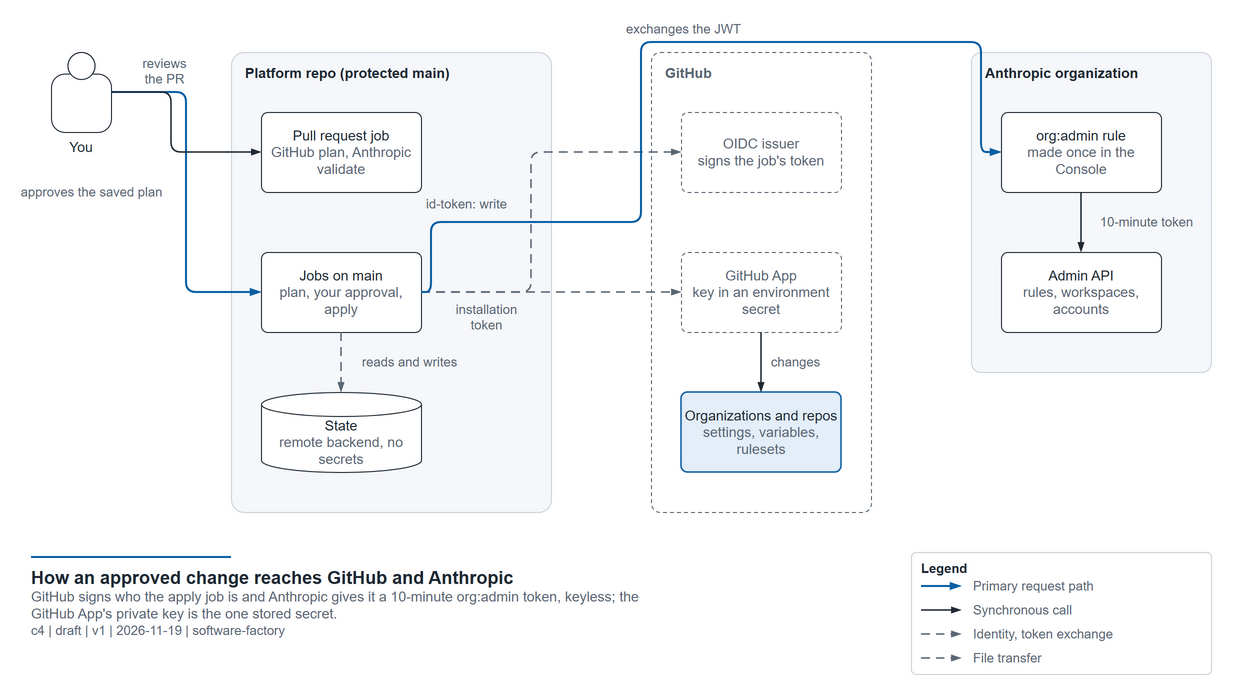
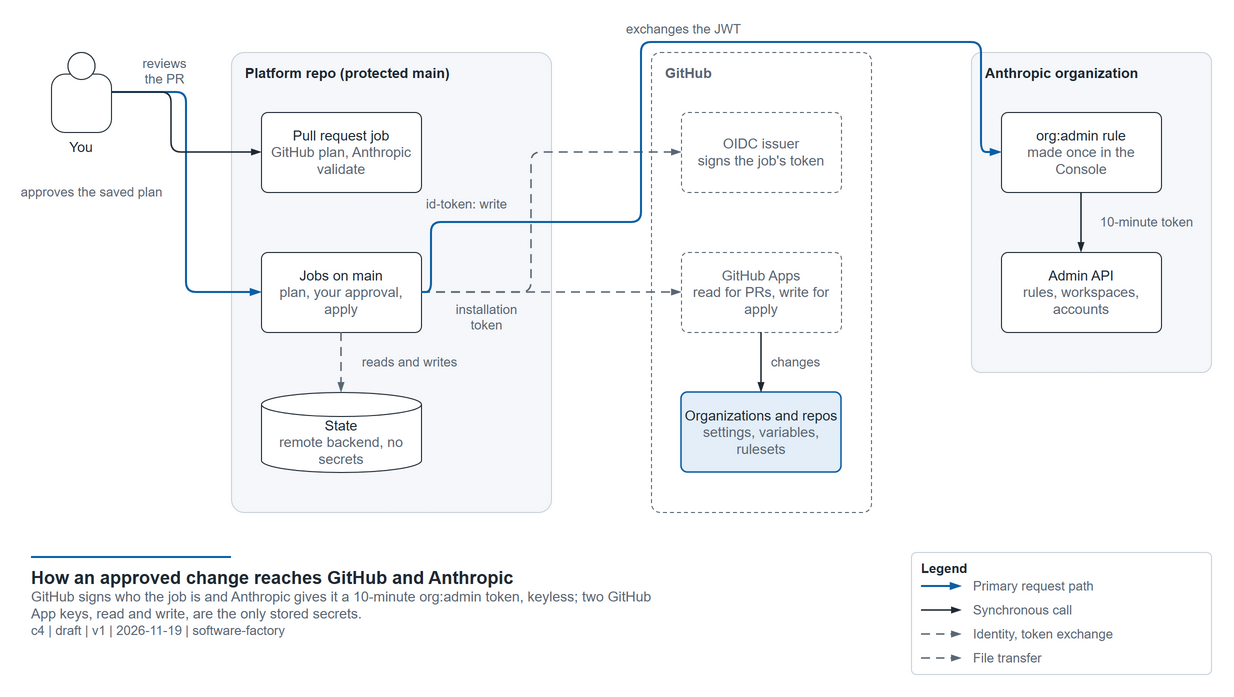
docs: pull request jobs get a read-only GitHub App only
Found by the Claude review on #27: the pull request job needed a GitHub
App token, but the one App described could write to every organization,
and a pull request's Terraform code (data "external") can reach any
secret its job can.

Two Apps now: platform-read (read permissions, used by the pull request
and plan jobs) and platform-write (key only in the production
environment, used by the approved apply). Phase 4's acceptance checks
that a test pull request gets neither the org:admin token nor the write
key; R3 and the diagram follow.

Changed region(s): [[0.0308, 0.8436, 0.5235, 0.9039], [0.5543, 0.3917, 0.6775, 0.4519]]

diff --git a/docs/plans/2026-11-19-terraform-platform.md b/docs/plans/2026-11-19-terraform-platform.md
@@ -101,7 +101,7 @@ That evidence settles D2.
 
 ## Target architecture
 
-![How an approved change reaches GitHub and Anthropic: you review the pull request, whose job plans GitHub and validates the Anthropic code; after the merge the jobs on main plan both, wait for your approval and apply the saved plan; they get a GitHub App installation token to change the organizations and repositories, and exchanges its GitHub OIDC token at a Console-made org:admin federation rule for a 10-minute token to the Anthropic Admin API; state lives in a remote backend without secrets](../diagrams/terraform-platform.png)
+![How an approved change reaches GitHub and Anthropic: you review the pull request, whose job plans GitHub and validates the Anthropic code; after the merge the jobs on main plan both, wait for your approval and apply the saved plan; they get GitHub App installation tokens (read-only for pull requests, write only for the approved apply) and exchange their GitHub OIDC token at a Console-made org:admin federation rule for a 10-minute token to the Anthropic Admin API; state lives in a remote backend without secrets](../diagrams/terraform-platform.png)
 
 - **One platform repository** (D1), one Terraform root per concern: `github/` (one provider alias per organization)
   and `anthropic/`. A module `factory-repo` holds everything one repository needs: the repository settings, its
@@ -114,12 +114,18 @@ That evidence settles D2.
   two jobs on `main`: the platform workflow's `job_workflow_ref` on `refs/heads/main`, and a CEL condition that the
   job's `environment` claim is `production-plan` or `production` (both environments limited to the `main` branch;
   the exact claim values to be confirmed against a real token in phase 4);
-  GitHub through a GitHub App installed on each organization, whose private key is an environment secret: the one
-  stored secret of the platform.
+  GitHub through **two GitHub Apps** installed on each organization, because a pull request's Terraform code can run
+  commands (`data "external"`) and so can reach any secret its job can:
+  - `platform-read`: read permissions only (administration, variables, Actions: read; no contents). Its key is a
+    repository secret, used by the pull request job and the plan job. Exposed to a pull request, it lets someone read
+    the organizations' settings, nothing more.
+  - `platform-write`: the write permissions the apply needs. Its key is a secret of the `production` environment
+    only, so only the approved apply job can read it.
+  The two App keys are the platform's only stored secrets.
 - **Where each plan runs.** Reading federation rules needs the `org:admin` token too (there is no read-only scope),
   and that token must never be reachable from code a pull request controls. So:
-  - **pull requests** run `terraform plan` for `github/` only (a GitHub App token with read permissions) and
-    `terraform validate` for `anthropic/`, which needs no credential;
+  - **pull requests** run `terraform plan` for `github/` only (with `platform-read`) and `terraform validate` for
+    `anthropic/`, which needs no credential;
   - **after a merge, on `main`,** a plan job in the environment `production-plan` (no reviewer) runs
     `terraform plan -out` for both roots and shows the plan in the job summary; nothing is changed;
   - an **apply job** in the environment `production` waits for **your approval** (its required reviewer: the one
@@ -143,8 +149,8 @@ Each phase is useful on its own and can stop there.
 |---|---|---|---|
 | 1. Spike | this document's spike | GitHub: done. Anthropic: both providers import with `0 to change`; D2 decided | S, half done |
 | 2. Anthropic in code | the chosen provider manages the rules, service account (and workspaces, if the provider allows it keyless) of the three repositories, applied locally with your `ant` login | `plan` clean after import; one new rule created by Terraform works on a real pull request; `claude_federation.py` documented as the fallback | S |
-| 3. GitHub in code | org workflow permissions and variables of all six organizations, repository settings and variables of the factory repositories; the GitHub App | `plan` clean after import; the egov-sofa default token permission set to `read` through a reviewed change | M |
-| 4. CI apply | platform repository (D1), state backend (D3), the Console `org:admin` rule, the environments `production-plan` and `production` | a pull request shows the GitHub plan and validates the Anthropic code; after a merge the plan on `main` shows both, and the saved plan is applied only after your approval, with no local login; a test pull request that edits the workflow cannot get an `org:admin` token | M |
+| 3. GitHub in code | org workflow permissions and variables of all six organizations, repository settings and variables of the factory repositories; the GitHub Apps `platform-read` and `platform-write` | `plan` clean after import; the egov-sofa default token permission set to `read` through a reviewed change | M |
+| 4. CI apply | platform repository (D1), state backend (D3), the Console `org:admin` rule, the environments `production-plan` and `production` | a pull request shows the GitHub plan and validates the Anthropic code; after a merge the plan on `main` shows both, and the saved plan is applied only after your approval, with no local login; a test pull request that edits the workflow gets neither an `org:admin` token nor the `platform-write` key (only `platform-read`, whose token cannot change anything) | M |
 | 5. `/factory-new` through the platform | the skill opens the platform pull request instead of running commands | a new repository from `/factory-new` gets its review working with no command and no login | S |
 
 ## Risks / out of scope
@@ -158,7 +164,8 @@ Each phase is useful on its own and can stop there.
   approval, but it only runs code already merged to the protected `main`) and the apply job (after your approval).
   Mitigations: the rule matches only those two jobs of one protected repository (workflow on `main`, two named
   environments limited to `main`); no pull request run matches it; the token lives ten minutes; the platform
-  repository's `main` is protected and needs a review (D1).
+  repository's `main` is protected and needs a review (D1). The `platform-write` App key is likewise readable only in
+  the `production` environment; pull request jobs get `platform-read` only.
 - **R4 drift is reverted.** A setting changed in the GitHub UI or the Console is undone at the next apply. The team
   changes settings through pull requests from phase 3 on; a scheduled `plan` reports drift without applying.
 - **R5 ippontech duplicates on retried creates** (#378): applies stay supervised; check the Console after a failed
